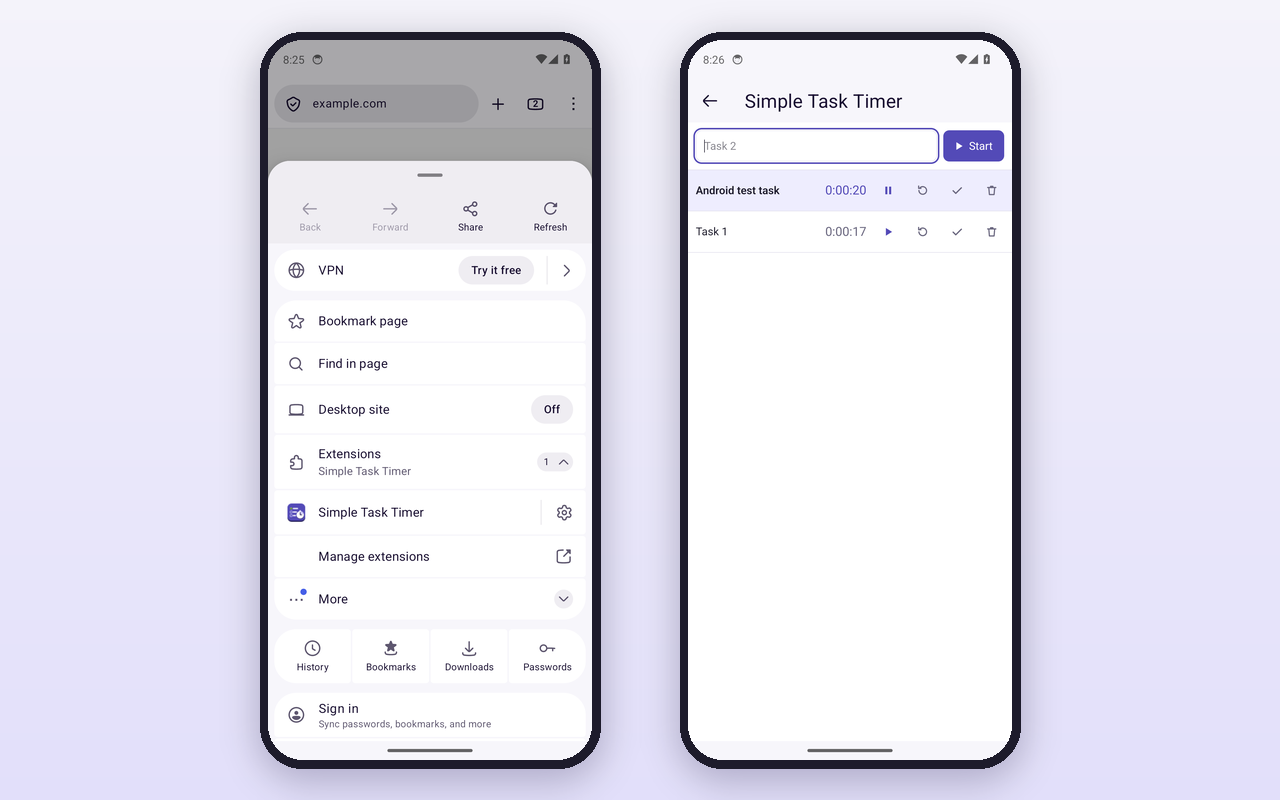
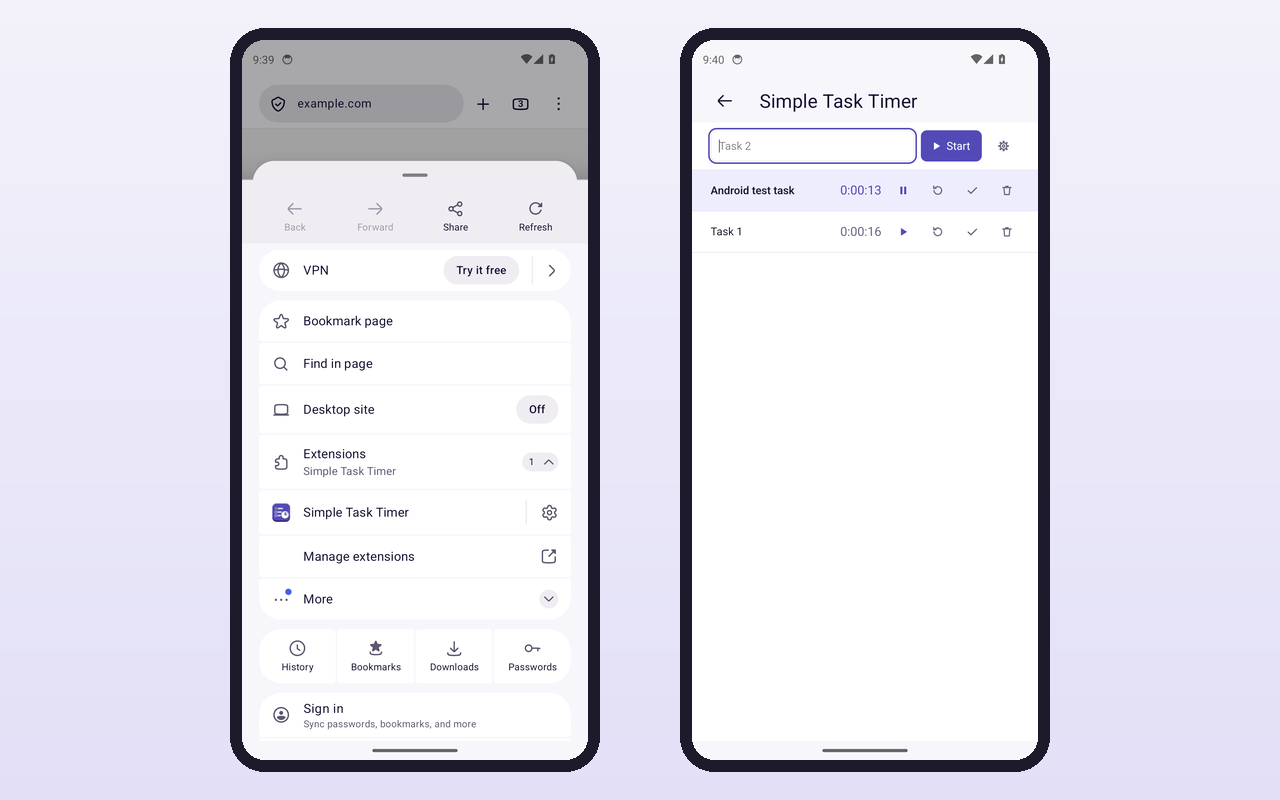
Answer the open release checks, and remake the Android AMO screenshot
The identity permission shows users no message, so updates did not ask
for it. Record the Firebase free plan limits. The new Android screenshot
shows the gear button; android_screenshot.py makes it from the Android
test screenshots.

diff --git a/firefox/tests/android_screenshot.py b/firefox/tests/android_screenshot.py
@@ -1,0 +1,73 @@
+#!/usr/bin/env python3
+"""Make the AMO screenshot screenshots/6-android.png from two screenshots of
+the Android emulator test (the "android-screenshots" artifact of
+.github/workflows/android-test.yml): the Firefox menu with the add-on, and
+the add-on page.
+
+Usage (needs pip install pillow):
+    python3 firefox/tests/android_screenshot.py <menu.png> <add-on.png>
+
+The two screens go side by side in phone frames, on a 1280 x 800 picture.
+"""
+import os
+import sys
+
+from PIL import Image, ImageDraw
+
+ROOT = os.path.dirname(os.path.dirname(os.path.dirname(os.path.abspath(__file__))))
+OUT = os.path.join(ROOT, 'firefox', 'screenshots', '6-android.png')
+W, H = 1280, 800
+SCREEN_H = 720       # the height of each screen in the picture
+BEZEL = 12
+FRAME = (29, 27, 43)
+
+
+def background():
+    """A light lavender gradient, from top to bottom."""
+    img = Image.new('RGB', (W, H))
+    top, bottom = (243, 242, 250), (226, 223, 247)
+    d = ImageDraw.Draw(img)
+    for y in range(H):
+        t = y / (H - 1)
+        d.line([(0, y), (W, y)], fill=tuple(round(a + (b - a) * t) for a, b in zip(top, bottom)))
+    return img
+
+
+def phone(path):
+    """The screen, scaled to SCREEN_H, with rounded corners in a dark frame."""
+    screen = Image.open(path).convert('RGB')
+    # The emulator's status bar text starts at the edge: add a side margin
+    # in the colors of the edge columns, so that the frame corner does not cut it
+    pad = screen.width // 30
+    wide = Image.new('RGB', (screen.width + 2 * pad, screen.height))
+    wide.paste(screen.crop((0, 0, 1, screen.height)).resize((pad, screen.height)), (0, 0))
+    wide.paste(screen.crop((screen.width - 1, 0, screen.width, screen.height)).resize((pad, screen.height)),
+               (screen.width + pad, 0))
+    wide.paste(screen, (pad, 0))
+    screen = wide
+    screen = screen.resize((round(screen.width * SCREEN_H / screen.height), SCREEN_H), Image.Resampling.LANCZOS)
+    w, h = screen.width + 2 * BEZEL, screen.height + 2 * BEZEL
+    out = Image.new('RGBA', (w, h), (0, 0, 0, 0))
+    ImageDraw.Draw(out).rounded_rectangle([0, 0, w - 1, h - 1], radius=34, fill=FRAME)
+    mask = Image.new('L', screen.size, 0)
+    ImageDraw.Draw(mask).rounded_rectangle([0, 0, screen.width - 1, screen.height - 1], radius=22, fill=255)
+    out.paste(screen, (BEZEL, BEZEL), mask)
+    return out
+
+
+def main(menu, addon):
+    img = background()
+    phones = [phone(menu), phone(addon)]
+    gap = 80
+    x = (W - sum(p.width for p in phones) - gap) // 2
+    for p in phones:
+        img.paste(p, (x, (H - p.height) // 2), p)
+        x += p.width + gap
+    img.save(OUT)
+    print(OUT)
+
+
+if __name__ == '__main__':
+    if len(sys.argv) != 3:
+        sys.exit(__doc__)
+    main(sys.argv[1], sys.argv[2])

diff --git a/docs/desktop-and-sync-plan.md b/docs/desktop-and-sync-plan.md
@@ -141,9 +141,12 @@ These steps made the project. Use them for a new project:
 
 - Does `browser.identity.launchWebAuthFlow` work in Firefox for Android? No: Firefox for Android has no `identity.launchWebAuthFlow` and no `getRedirectURL` (MDN browser compatibility data, `webextensions/api/identity.json`). Decision: on Android, the sign-in goes through the web version on Firebase Hosting. Preferences goes to Google with the web version as the redirect URI (it is already an authorized redirect URI of the web client), and with the state `ext.<add-on ID>.<random value>`. The web version sees that state and opens the add-on Preferences page with the token in the URL fragment. Preferences checks the state against the value it saved in `storage.local` (used once, at most 30 minutes old). Only the web version's site can open that page (`web_accessible_resources`), so the add-on needs no new permission. Tested in headless Firefox (`firefox/tests/hand_off_test.py`) and in the Android emulator test.
 - The desktop goal notification banner after "Allow". The app sends it (the notify command returns success), and macOS then asks once whether "Simple Task Timer" may send notifications. Until the user clicks Allow, no alert shows. The notification plugin uses `NSUserNotificationCenter` (deprecated since macOS 11).
-- The current limits of the Firebase free plan for Authentication and Firestore.
+- The limits of the Firebase free plan (Spark), from the Firebase docs (October 2026):
+  - Firestore ("Usage and limits"): 1 GiB stored data, 50,000 document reads, 20,000 writes and 20,000 deletes per day (reset at about midnight Pacific time), and 10 GiB outbound data per month.
+  - Authentication ("Limits"), with Identity Platform on the Spark plan: 3,000 Tier 1 daily active users. Google sign-in is a social provider, so it is Tier 1 (Identity Platform pricing). New accounts: 100 an hour from each IP address.
+  - Hosting ("Usage, quotas, and pricing"): 10 GB stored and 10 GB data transfer a month. After 10 GB of transfer, Firebase disables the sites until the next month.
 - The addons.mozilla.org listing must say that sync sends task names, times and the Google account email to Firebase. Done in 4.2.0: the listing has a Sync and a Private item, and the add-on has a privacy policy.
-- Does the new `identity` permission make Firefox ask existing users before the update?
+- Does the new `identity` permission make Firefox ask existing users before the update? No. Mozilla's guide "Request the right permissions" (Extension Workshop) lists `identity` with the permissions that "don't get alerted to users". The guide says that Firefox asks before an update that needs more permissions; a permission with no message gives it nothing to show (the guide does not state this case on its own). The `web_accessible_resources` entry of 4.3.0 is not a permission.
 
 ## Steps
 

diff --git a/firefox/README.md b/firefox/README.md
@@ -43,3 +43,4 @@ node web/build.mjs && python3 firefox/tests/hand_off_test.py
 - `hand_off_test.py`: the sign-in of Firefox for Android after Google. The web version gets a test token and sends it on to the add-on. A token with another state, the same state a second time, and a page on another site are refused.
 - `android_test.py`: runs the add-on in an Android emulator (GitHub Actions only), with the same sign-in step as `hand_off_test.py`.
 - `amo_screenshots.py`: makes the AMO screenshots in `screenshots/` (also needs `pip install pillow`).
+- `android_screenshot.py`: makes `screenshots/6-android.png` from two screenshots of the Android test (the menu, and the add-on page).
